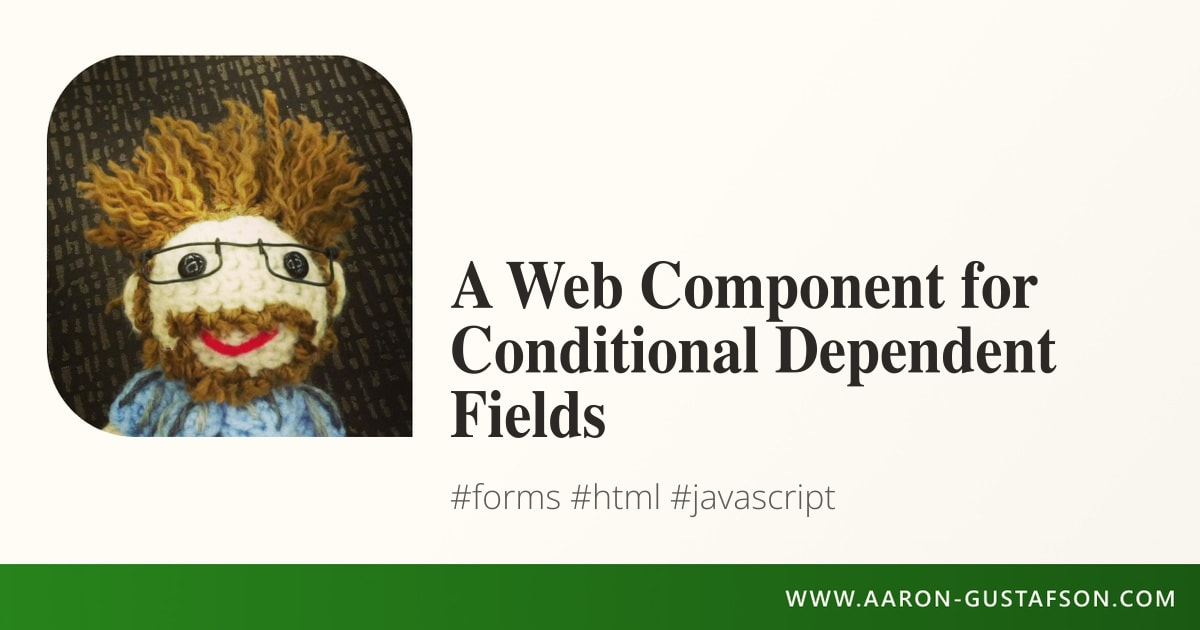
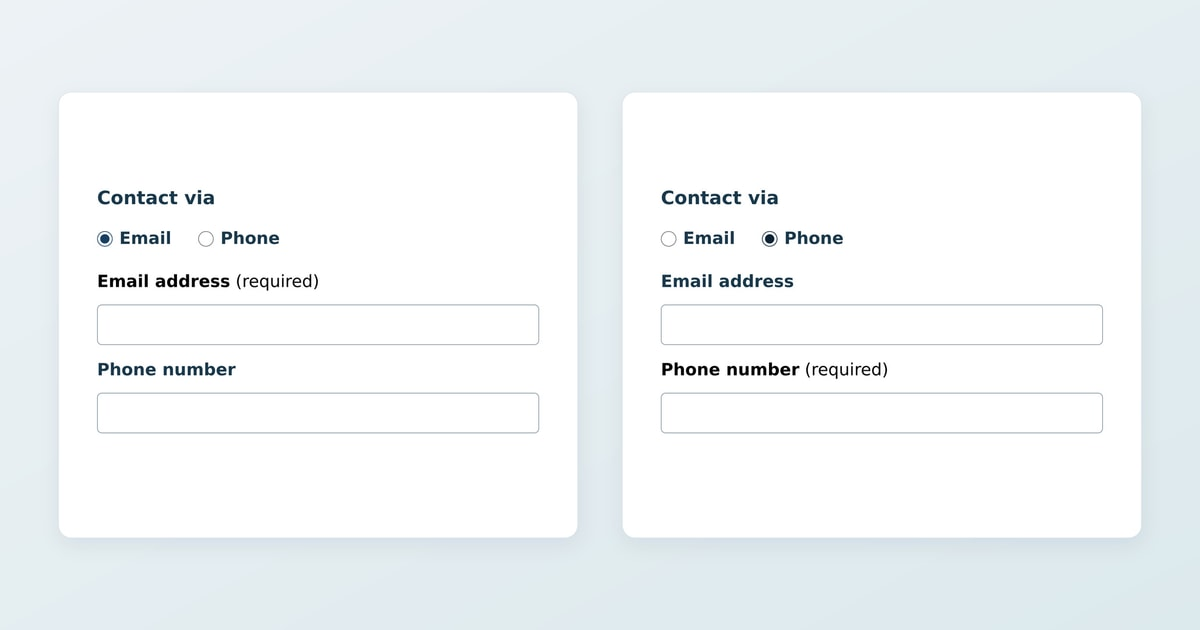
New hero images for the web components posts

diff --git a/src/posts/2026-10-07-tabbed-interface-the-web-component.md b/src/posts/2026-10-07-tabbed-interface-the-web-component.md
@@ -7,6 +7,9 @@ tags:
 description: "I’ve been building tabbed interfaces from document headings since 2007. My new custom element carries that approach forward and now drops the tabs when they don’t fit."
 twitter_text: "I keep coming back to tabbed interfaces."
 atUri: "at://did:plc:6rmgrvblxflqh34omwywu6ib/site.standard.document/3mxrnvyxrob2n"
+hero:
+  src: /i/posts/2026-10-07/hero.jpg
+  alt: "A tabbed interface with Getting Started, Features, and Installation tabs; Features is selected and its feature list is visible."
 image: "/i/share-cards/tabbed-interface-the-web-component.jpg"
 meta_description: "I’ve been building tabbed interfaces from document headings since 2007."
 social_description: "I’ve been building tabbed interfaces from document headings since 2007. My new custom element carries that approach forward and now drops the tabs when they don’t fit."

diff --git a/src/posts/2025-10-20-a-web-component-for-conditionally-displaying-fields.md b/src/posts/2025-10-20-a-web-component-for-conditionally-displaying-fields.md
@@ -6,6 +6,9 @@ tags: ["web components", "web forms", "progressive enhancement", "HTML"]
 description: "Sometimes you only want a field to show when certain other fields have a (particular) value. The `form-show-if` web component enables that."
 twitter_text: "Sometimes you only want a field to show when certain other fields have a (particular) value. The `form-show-if` web component enables that."
 atUri: "at://did:plc:6rmgrvblxflqh34omwywu6ib/site.standard.document/3mxrnw2ahmj2l"
+hero:
+  src: /i/posts/2025-10-20/hero.jpg
+  alt: "Contact via radios set to Email and Phone in two form states. Email address appears when Email is selected; Phone number appears when Phone is selected."
 image: "/i/share-cards/a-web-component-for-conditionally-displaying-fields.jpg"
 ---
 

diff --git a/src/posts/2026-11-04-there-can-be-only-one-redux.md b/src/posts/2026-11-04-there-can-be-only-one-redux.md
@@ -15,7 +15,7 @@ tags:
 description: "Building on my HTMHell piece about “choose one” fields, I created `<form-multi-switch>` to turn radio buttons into a more compact switch control."
 twitter_text: "One benefit of radio buttons is that they show every choice; a select doesn’t, but is more compact. <form-multi-switch> aims to split the difference."
 hero:
-  src: /i/posts/form-multi-switch/hero.jpg
+  src: /i/posts/2026-11-04/hero.jpg
   alt: "Delivery speed choices shown as a vertical radio group and a horizontal segmented control. Both show Standard, Express, and Overnight, with Express selected."
 image: "/i/share-cards/there-can-be-only-one-redux.jpg"
 atUri: "at://did:plc:6rmgrvblxflqh34omwywu6ib/site.standard.document/3mzjgobfz4k2u"

diff --git a/src/posts/2026-04-22-visual-validation-feedback-for-form-fields.md b/src/posts/2026-04-22-visual-validation-feedback-for-form-fields.md
@@ -20,6 +20,9 @@ series:
   tag: "series-forms"
   ordinal: "12th"
 atUri: "at://did:plc:6rmgrvblxflqh34omwywu6ib/site.standard.document/3mxrnvzdmr72f"
+hero:
+  src: /i/posts/2026-04-22/hero.jpg
+  alt: "Username validation compares River, which lacks a number, with River42, which satisfies the capital-letter, lowercase-letter, and number requirements."
 image: "/i/share-cards/visual-validation-feedback-for-form-fields.jpg"
 meta_description: "The `<form-validation-list>` web component shows people which validation rules they have satisfied as they type."
 social_description: "The `<form-validation-list>` web component provides real-time visual feedback on validation requirements, showing users which rules they have satisfied as they type."

diff --git a/src/posts/2024-08-13-a-web-component-for-conditional-dependent-fields.md b/src/posts/2024-08-13-a-web-component-for-conditional-dependent-fields.md
@@ -18,6 +18,9 @@ series:
   tag: "series-forms"
   ordinal: "6th"
 atUri: "at://did:plc:6rmgrvblxflqh34omwywu6ib/site.standard.document/3mxrnw2vvuh25"
+hero:
+  src: /i/posts/2024-08-13/hero.jpg
+  alt: "Contact via radios set to Email and Phone in two form states. Both fields stay visible, and the required label moves from Email address to Phone number."
 image: "/i/share-cards/a-web-component-for-conditional-dependent-fields.jpg"
 meta_description: "Sometimes you need to require a value in one form field only if another field is filled in or if that field has a specific value."
 social_description: "Sometimes you need to require a value in one form field only if another field is filled in or if that field has a specific value."

diff --git a/src/posts/2026-01-31-repeatable-form-fields-made-simple.md b/src/posts/2026-01-31-repeatable-form-fields-made-simple.md
@@ -10,6 +10,9 @@ series:
   tag: "series-forms"
   ordinal: "10th"
 atUri: "at://did:plc:6rmgrvblxflqh34omwywu6ib/site.standard.document/3mxrnvzmcjt2p"
+hero:
+  src: /i/posts/2026-01-31/hero.jpg
+  alt: "A trip form contains three numbered stops—Portland, Seattle, and Vancouver—with remove controls and an Add Another button."
 image: "/i/share-cards/repeatable-form-fields-made-simple.jpg"
 meta_description: "Need to let users add multiple email addresses, phone numbers, or other field groups?"
 social_description: "Need to let users add multiple email addresses, phone numbers, or other field groups? The `<form-repeatable>` web component handles the duplication, renumbering, and form submission automatically."

diff --git a/src/posts/2026-10-12-sortable-tables-with-progressive-enhancement.md b/src/posts/2026-10-12-sortable-tables-with-progressive-enhancement.md
@@ -14,6 +14,9 @@ tags:
 description: "My table-sortable web component adds accessible, customizable sorting to ordinary HTML tables while keeping their core structure and semantics intact."
 twitter_text: "Need sortable tables? My table-sortable web component adds accessible, customizable sorting to ordinary HTML tables—and they still work when JavaScript doesn’t."
 atUri: "at://did:plc:6rmgrvblxflqh34omwywu6ib/site.standard.document/3mxrnvyrt772w"
+hero:
+  src: /i/posts/2026-10-12/hero.jpg
+  alt: "A table of names, ages, cities, and occupations sorted by age from 26 to 42, with an ascending-sort indicator on Age."
 image: "/i/share-cards/sortable-tables-with-progressive-enhancement.jpg"
 ---
 

diff --git a/src/posts/2024-07-05-requirement-rules-for-checkboxes.md b/src/posts/2024-07-05-requirement-rules-for-checkboxes.md
@@ -20,6 +20,9 @@ series:
   tag: "series-forms"
   ordinal: "5th"
 atUri: "at://did:plc:6rmgrvblxflqh34omwywu6ib/site.standard.document/3mxrnw342pc2w"
+hero:
+  src: /i/posts/2024-07-05/hero.jpg
+  alt: "A checkbox group asks for three skills, with JavaScript, Python, and Rust selected from five options."
 image: "/i/share-cards/requirement-rules-for-checkboxes.jpg"
 meta_description: "Currently, we can only make checkboxes required or not, individually."
 social_description: "Currently, we can only make checkboxes required or not, individually. In some cases you need to be able to set a specific number of checkboxes that need to be checked."

diff --git a/src/posts/2025-12-06-a-web-component-for-obfuscating-form-fields.md b/src/posts/2025-12-06-a-web-component-for-obfuscating-form-fields.md
@@ -19,6 +19,9 @@ series:
   tag: "series-forms"
   ordinal: "8th"
 atUri: "at://did:plc:6rmgrvblxflqh34omwywu6ib/site.standard.document/3mxrnw22o2z2l"
+hero:
+  src: /i/posts/2025-12-06/hero.jpg
+  alt: "A credit-card field shows an example number while focused, then masks the first three groups of digits while leaving the last four, 3456, visible."
 image: "/i/share-cards/a-web-component-for-obfuscating-form-fields.jpg"
 meta_description: "There’s no standard way to make a field readable while editing but obfuscated at rest."
 social_description: "There’s no standard way to make a field readable while editing but obfuscated at rest."

diff --git a/src/posts/2025-12-29-fullscreen-video-and-iframes-made-easy.md b/src/posts/2025-12-29-fullscreen-video-and-iframes-made-easy.md
@@ -14,6 +14,9 @@ tags:
 description: "The fullscreen-control web component adds fullscreen capabilities to any video or iframe element with a single wrapper and zero configuration."
 twitter_text: "Add fullscreen controls to videos and iframes with progressive enhancement. One wrapper, zero hassle."
 atUri: "at://did:plc:6rmgrvblxflqh34omwywu6ib/site.standard.document/3mxrnvzs7kp2f"
+hero:
+  src: /i/posts/2025-12-29/hero.jpg
+  alt: "An embedded shipping-speed selector, with Express selected, and a View fullscreen button at the upper right of the iframe."
 image: "/i/share-cards/fullscreen-video-and-iframes-made-easy.jpg"
 ---
 

diff --git a/src/posts/2026-05-25-matching-form-fields-with-a-web-component.md b/src/posts/2026-05-25-matching-form-fields-with-a-web-component.md
@@ -19,6 +19,9 @@ series:
   tag: "series-forms"
   ordinal: "7th"
 atUri: "at://did:plc:6rmgrvblxflqh34omwywu6ib/site.standard.document/3mxrnvzaswb2l"
+hero:
+  src: /i/posts/2026-05-25/hero.jpg
+  alt: "Two email-confirmation forms compare a mismatched address, raeder@example.com, with a matching pair of reader@example.com addresses."
 image: "/i/share-cards/matching-form-fields-with-a-web-component.jpg"
 meta_description: "Confirming values like email addresses and passwords is a common form need."
 social_description: "Confirming values like email addresses and passwords is a common form need."

diff --git a/src/posts/2026-04-20-never-lose-form-progress-again.md b/src/posts/2026-04-20-never-lose-form-progress-again.md
@@ -19,6 +19,9 @@ series:
   tag: "series-forms"
   ordinal: "11th"
 atUri: "at://did:plc:6rmgrvblxflqh34omwywu6ib/site.standard.document/3mxrnvzgjfd2a"
+hero:
+  src: /i/posts/2026-04-20/hero.jpg
+  alt: "A contact form restored after a page reload, retaining an example name, email address, and partially written message."
 image: "/i/share-cards/never-lose-form-progress-again.jpg"
 ---
 
